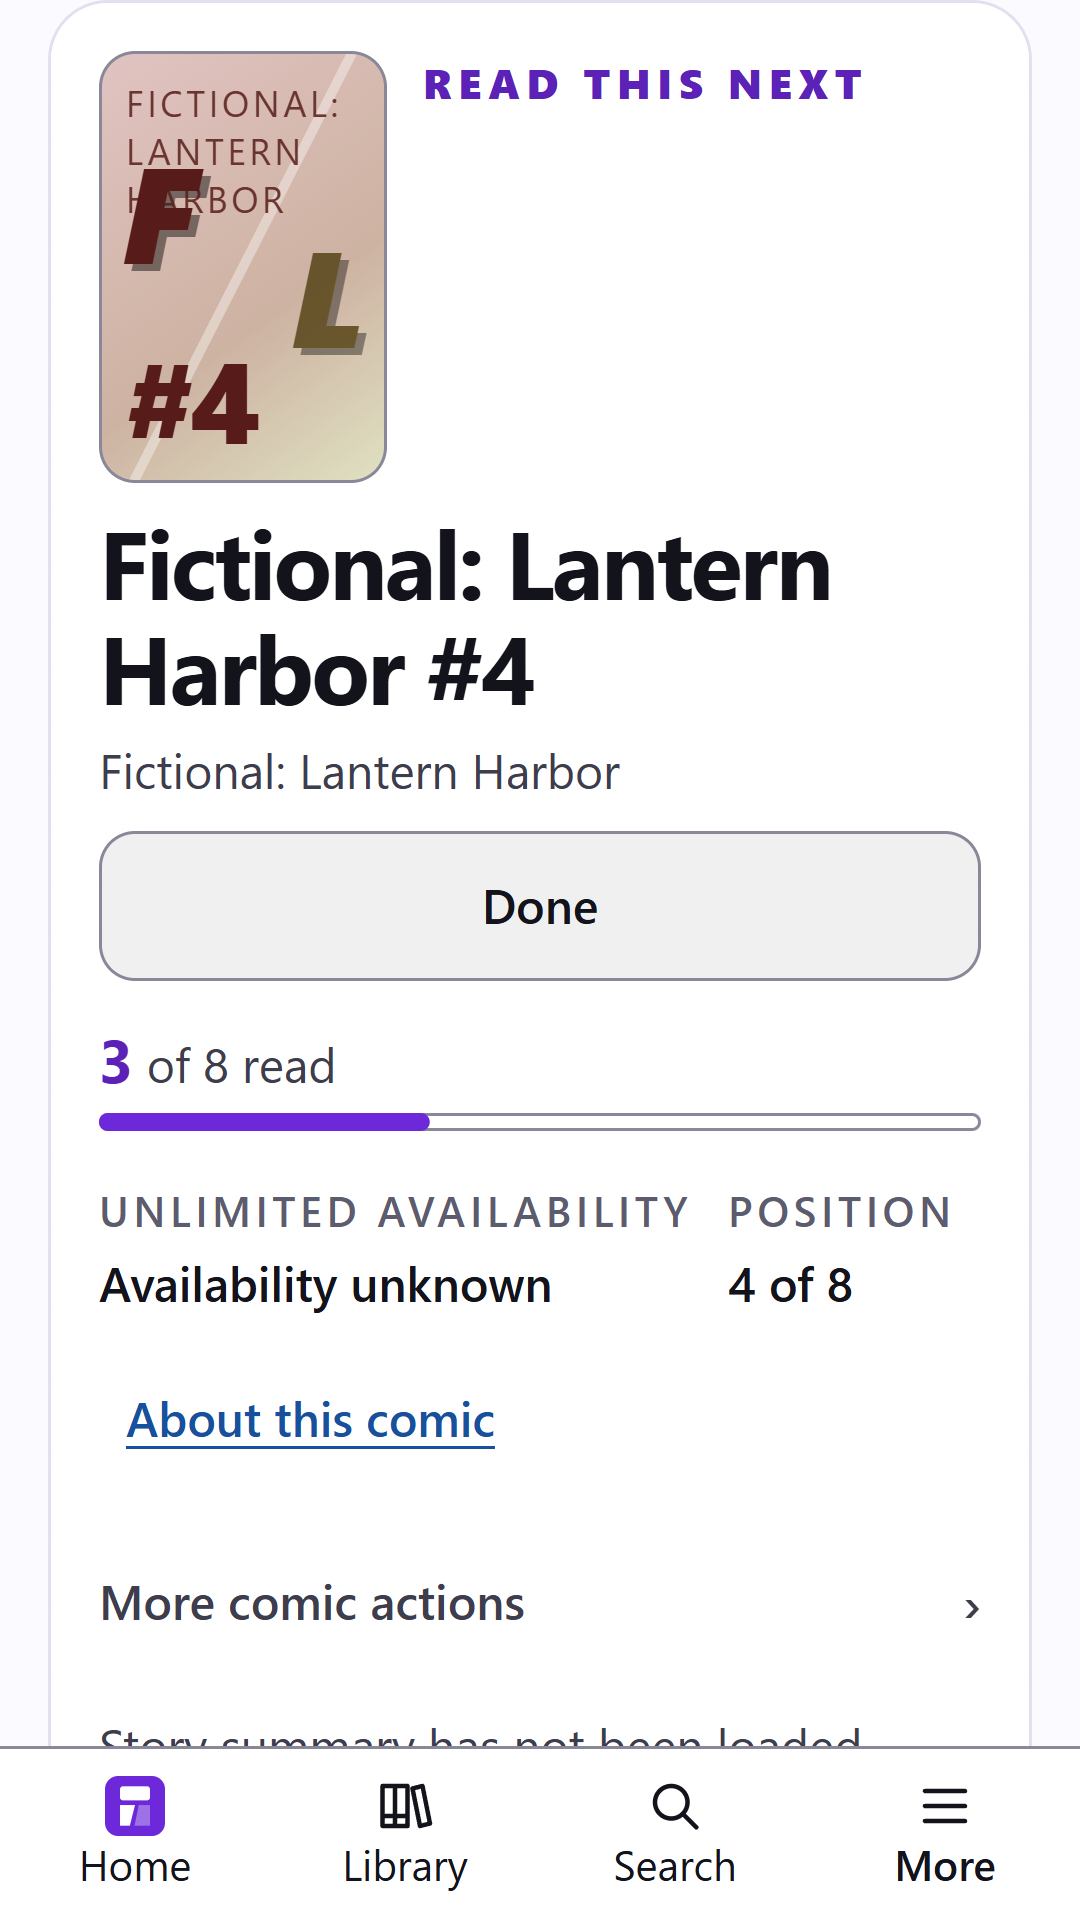
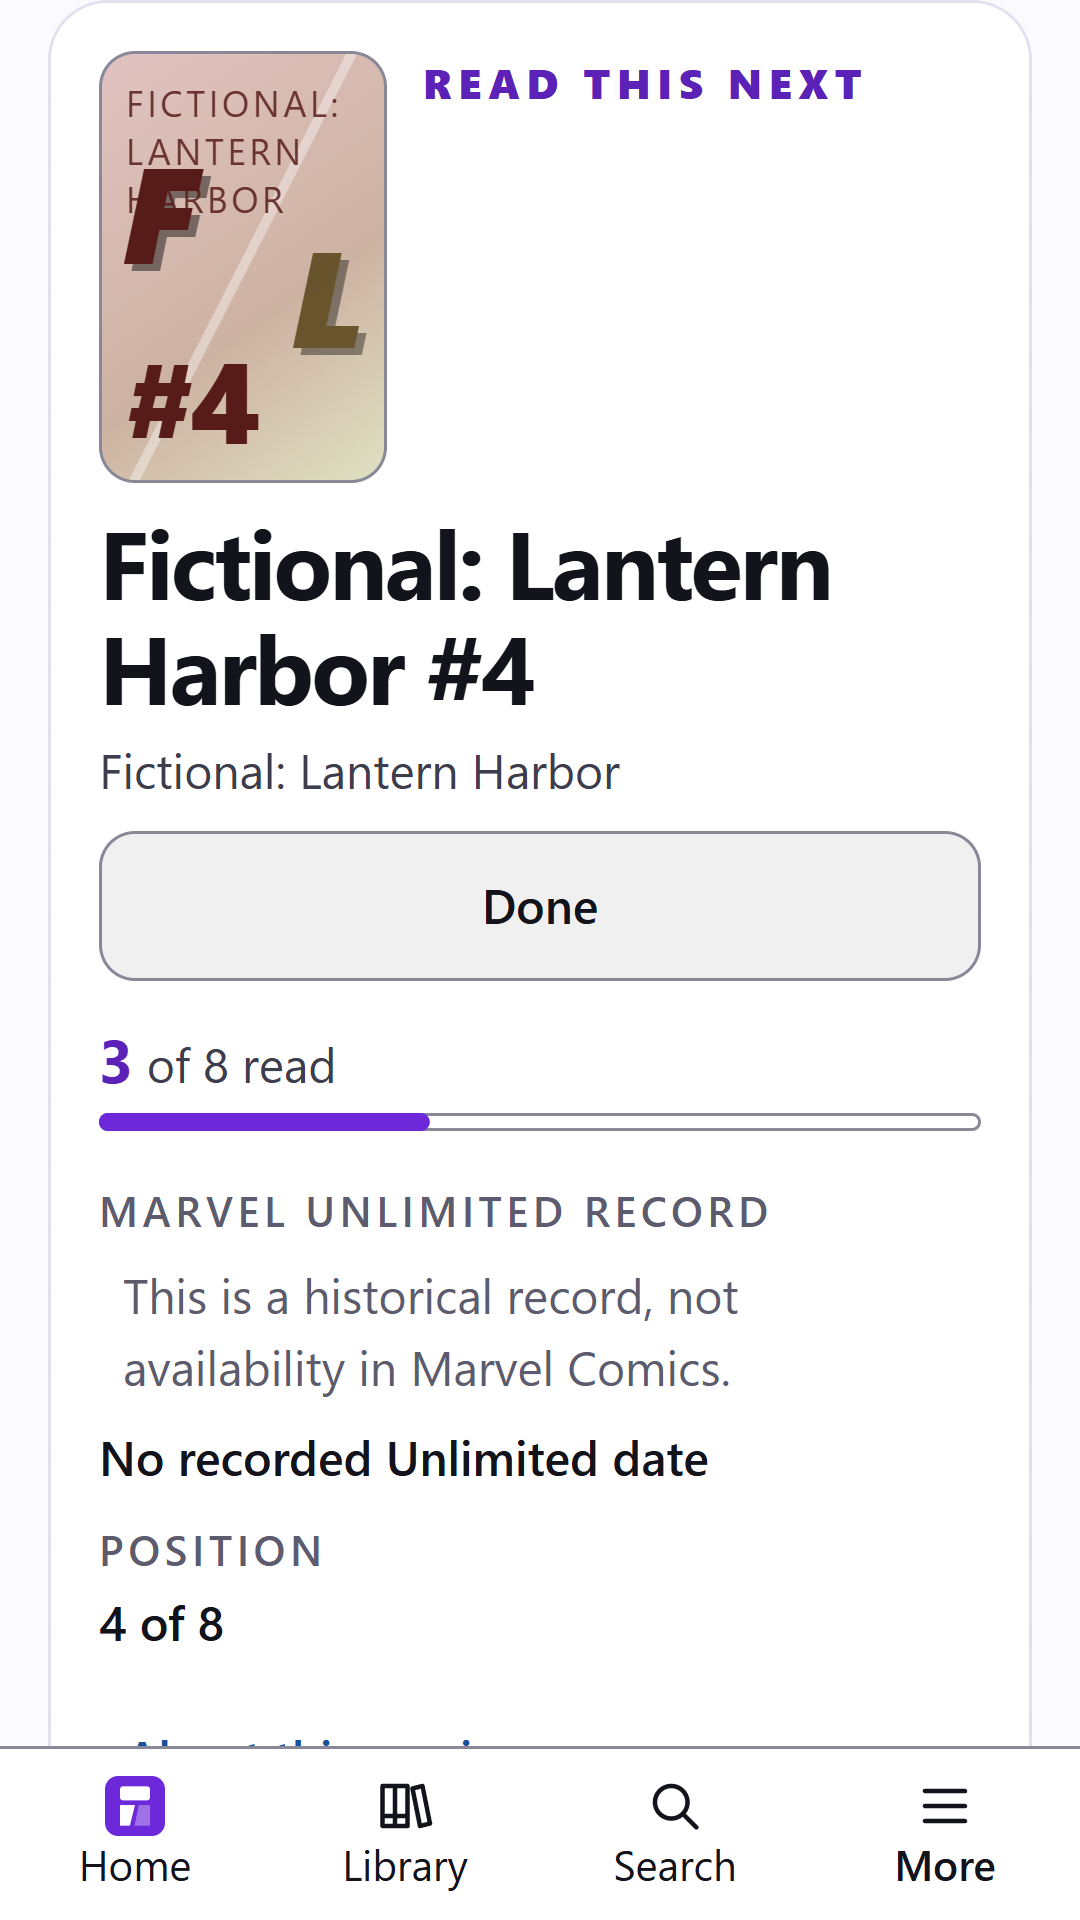
Retake the project home's four pictures from 2673c8e3 (#977)
The desktop reading picture dated from September 7 and showed controls the app no longer has:
Open in Marvel Unlimited, Inspect issue and Done, next. The Home picture predated the December 7
notice, and the phone reading picture predated the correction that now sets the Marvel Unlimited
record note as a sentence rather than in spaced capitals (#978).

All four are retaken from one clean checkout of 2673c8e3, main with #986, so they share one
source revision and tree (1b0c95ee). The two phone pictures are inspected copies from
`npm run play:assets`; the provenance record takes that run's revision, tree, Android manifest
hash and each picture's bytes and SHA-256 from its own manifest. The Library picture came out
byte for byte the same as the 4.2.0 one, so only its record changes.

The two desktop pictures follow the maintainer guide's recipe with the Store capture's setup:
Edge Edg/156.0.4314.42 at 960 by 900 and scale 1, a fresh profile, cover art off, the collapsed
sidebar, every non-local request refused (none was made) and metadata calls answered by the
Store capture's fixed stub. Home is the empty first run in the dark theme: 154,720 bytes,
SHA-256 8b48fa8a5d3a84b64dbaf4d08a746cd4ae6df4ea60d4fda610006460f1bda690. The reading picture
is Avengers Disassembled with its first issue marked read, in the light theme the September
picture used: 107,254 bytes, SHA-256
71883988fc663837c5f200efba1846920dcfd8fb984aa43fdad543233703c131. Both passed a pre-capture
[…]

Changed region(s): [[0.0917, 0.625, 0.8861, 0.875]]

diff --git a/pages/index.html b/pages/index.html
@@ -118,7 +118,7 @@
                 width="1080"
                 height="1920"
                 loading="lazy"
-                alt="Android reading view with a fictional next issue, a Done button, 3 of 8 read, unknown availability, About this comic, and More comic actions, above the bottom navigation"
+                alt="Android reading view with a fictional next issue, a Done button, 3 of 8 read, no recorded Unlimited date, and position 4 of 8, above the bottom navigation"
               />
               <figcaption>
                 <strong>Your next comic.</strong>
@@ -232,7 +232,7 @@
                 width="960"
                 height="900"
                 loading="lazy"
-                alt="Avengers Disassembled showing the next issue, reading progress, and upcoming comics"
+                alt="Avengers Disassembled showing the next issue, Read and Done buttons, and reading progress"
               />
               <figcaption>
                 See what to read next.

diff --git a/README.md b/README.md
@@ -35,7 +35,7 @@ The screenshots show a different list, with cover art off.
 ![Recap Page Home with the Start with Modern Timeline and Search buttons and six reading-list
 categories from Modern Timeline to Young readers, with cover art off](docs/screenshots/home-960.png)
 
-![Avengers Disassembled showing the next issue, reading progress, and upcoming comics,
+![Avengers Disassembled showing the next issue, Read and Done buttons, and reading progress,
 with cover art off](docs/screenshots/avengers-disassembled-reading-960.png)
 
 ## Made for long reading journeys
